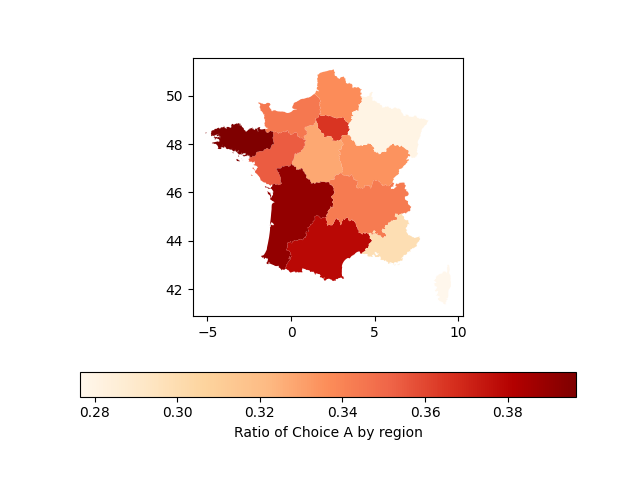
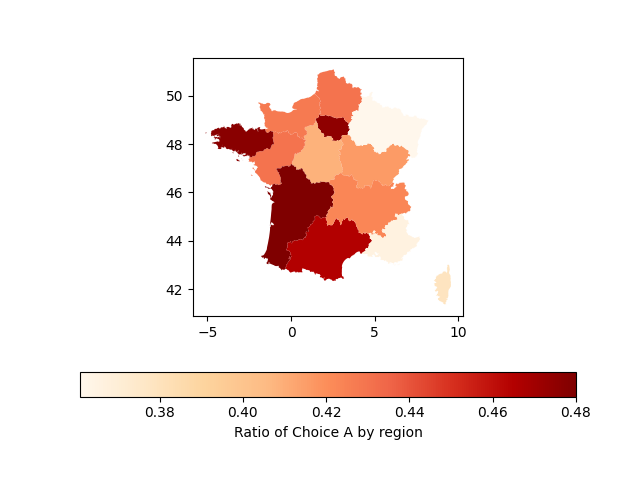
Final changes. Passed until merge_referendum_and_area.

diff --git a/pandas_questions.py b/pandas_questions.py
@@ -16,16 +16,9 @@ import numpy as np
 
 def load_data():
     """Load data from the CSV files referundum/regions/departments."""
-    regions = pd.read_csv("data/regions.csv",sep=",",index_col='id')
-    regions.columns = ['code_reg','name_reg','slug']
-    departments = pd.read_csv("data/departments.csv",sep=",",index_col='id')
-    departments.columns = ['code_reg','code_dep','name_dep','slug']
-    referendum = pd.read_csv("data/referendum.csv",sep =';')
-    referendum.columns = ['code_dep', 'Department name', 'Town code', 'Town name',
-                            'Registered', 'Abstentions', 'Null', 'Choice A', 'Choice B']
-    # print(regions.head(4))
-    # print(departments.head(4))
-    # print(referendum)
+    regions = pd.read_csv("data/regions.csv", sep=",")
+    departments = pd.read_csv("data/departments.csv", sep=",")
+    referendum = pd.read_csv("data/referendum.csv", sep =';')
     return referendum, regions, departments
 
 
@@ -35,10 +28,11 @@ def merge_regions_and_departments(regions, departments):
     The columns in the final DataFrame should be:
     ['code_reg', 'name_reg', 'code_dep', 'name_dep']
     """
-    merged_df = pd.merge(regions,departments,"left",'code_reg')
-    # merged_df = pd.concat([regions,departments])
-    # print(merged_df)
-    return merged_df[['code_reg','name_reg','code_dep','name_dep']]
+    merged_df = pd.merge(regions, departments, "right", left_on='code',
+                         right_on='region_code')
+    merged_df = merged_df.set_index('id_x')[['code_x', 'name_x', 'code_y', 'name_y']]
+    merged_df.columns = ['code_reg', 'name_reg', 'code_dep', 'name_dep']
+    return merged_df
 
 
 def merge_referendum_and_areas(referendum, regions_and_departments):
@@ -50,11 +44,19 @@ def merge_referendum_and_areas(referendum, regions_and_departments):
     DOM-TOM-COM departments are departements that are remote from metropolitan
     France, like Guadaloupe, Reunion, or Tahiti.
     """
-    ind = np.where(referendum['code_dep'].str.startswith("Z"))[0]
-    referendum = referendum.drop(ind)
-    merged_df = pd.merge(referendum,regions_and_departments,"left",'code_dep')
-    # print(merged_df.columns)
-    # print(merged_df)
+    def correction_dep(x):
+        if x.startswith("0"):
+            return x.split("0")[1]
+        else:
+            return x
+    regions_and_departments['code_dep'] = regions_and_departments['code_dep'].apply(correction_dep)
+
+    mask_z = referendum['Department code'].astype(str).str.startswith('Z')
+    referendum = referendum.loc[~mask_z].copy()
+
+    merged_df = pd.merge(referendum, regions_and_departments,
+                         how='left', left_on='Department code', right_on='code_dep')
+    merged_df = merged_df.dropna()
     return merged_df
 
 
@@ -64,8 +66,18 @@ def compute_referendum_result_by_regions(referendum_and_areas):
     The return DataFrame should be indexed by `code_reg` and have columns:
     ['name_reg', 'Registered', 'Abstentions', 'Null', 'Choice A', 'Choice B']
     """
-    aux = referendum_and_areas[['code_reg','name_reg', 'Registered', 'Abstentions', 'Null', 'Choice A', 'Choice B']]
-    results = aux.groupby('code_reg').sum()
+    aux = referendum_and_areas[['code_reg', 'name_reg', 'Registered',
+                                'Abstentions', 'Null', 'Choice A', 'Choice B']]
+
+    results = aux.groupby('code_reg').agg({
+        'name_reg': 'first',
+        'Registered': 'sum',
+        'Abstentions': 'sum',
+        'Null': 'sum',
+        'Choice A': 'sum',
+        'Choice B': 'sum'
+    })
+
     return results
 
 
@@ -80,19 +92,22 @@ def plot_referendum_map(referendum_result_by_regions):
     """
     ref_map = gpd.read_file('data/regions.geojson') # load geodata
 
-    ref_map.columns = ['code_reg','nom','geometry']
-    ind = np.where(ref_map['nom'].isin(['Guadeloupe','Martinique','Guyane','La Réunion','Mayotte']))[0] # remove non metropolitan france states
-    # merging results and geographic data 
-    merged_results = pd.merge(ref_map,referendum_result_by_regions,'left','code_reg')
-    merged_results = merged_results.drop(ind)
-    print(merged_results)
+    ref_map.columns = ['code_reg', 'nom', 'geometry']
 
-    choiceA = merged_results.apply(lambda x: x['Choice A']/x['Registered'],axis=1)
-    merged_results['Ratio A'] = choiceA
+    if 'code_reg' not in referendum_result_by_regions.columns:
+        referendum_result_by_regions = referendum_result_by_regions.reset_index()
 
-    merged_results.plot(column='Ratio A', cmap='OrRd', legend=True,
+    merged_results = ref_map.merge(referendum_result_by_regions, on='code_reg', how='left')
+
+    remove = ['Guadeloupe', 'Martinique', 'Guyane', 'La Réunion', 'Mayotte']
+    merged_results = merged_results[~merged_results['nom'].isin(remove)].copy()
+
+    denom = merged_results['Choice A'] + merged_results['Choice B']
+    merged_results['ratio'] = merged_results['Choice A'] / denom
+
+    merged_results.plot(column='ratio', cmap='OrRd', legend=True,
                         legend_kwds={'label': "Ratio of Choice A by region",
-                                    'orientation': "horizontal"})
+                                     'orientation': "horizontal"})
 
     return merged_results
 
@@ -109,8 +124,6 @@ if __name__ == "__main__":
     referendum_results = compute_referendum_result_by_regions(
         referendum_and_areas
     )
-    print(referendum_results)
 
     plot_referendum_map(referendum_results)
-    # plt.show()
     plt.savefig('referendum_map.png')

diff --git a/test_pandas_questions.py b/test_pandas_questions.py
@@ -114,3 +114,9 @@ def test_plot_referendum_map():
     assert 'ratio' in gdf_referendum.columns
     gdf_referendum = gdf_referendum.set_index('name_reg')
     assert np.isclose(gdf_referendum['ratio'].loc['Normandie'], 0.427467)
+
+test_load_data()
+test_merge_regions_and_departments()
+test_merge_referendum_and_area()
+test_compute_referendum_result_by_regions()
+test_plot_referendum_map()
